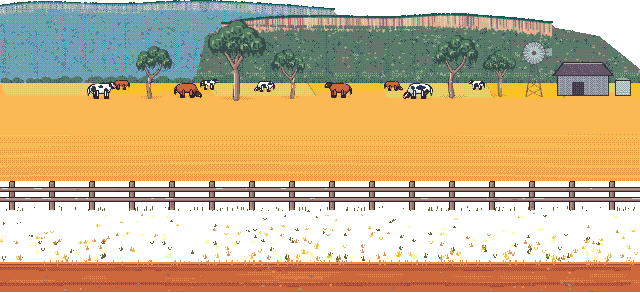
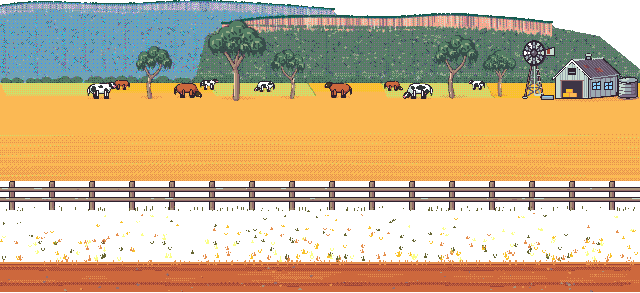
feat(art): give the shed and windmill depth and features

Changed region(s): [[0.8125, 0.1229, 1.0, 0.3686]]

diff --git a/internal/art/backdrop.go b/internal/art/backdrop.go
@@ -51,7 +51,7 @@ const (
 func Backdrop(p Pen, w, ground float64) {
 	mesas(p, w)
 	paddocks(p, w, ground)
-	farm(p.Faded(0.9))
+	farm(p)
 	for _, g := range BackGums {
 		BackGum(p.At(g.X, g.Y).Sized(g.Size).Mirrored(g.Flip), g.Shape)
 	}
@@ -126,55 +126,203 @@ func paddocks(p Pen, w, ground float64) {
 	}
 }
 
-// farm draws the farm in the distance on the right: a shed with a
-// corrugated roof and a water tank beside it, and a windmill.
+// farm draws the farm in the distance on the right (DESIGN D35): the
+// windmill with its trough, the shed and the water tank, each with its
+// shadow on the grass.
 func farm(p Pen) {
-	// The shed, its wall and roof ribbed, its door open dark.
-	p.Poly(ink, 557, 223, 609, 223, 609, 245, 557, 245)
-	p.Poly(resurrect64.Fog, 558, 224, 608, 224, 608, 244, 558, 244)
-	for x := 561.0; x < 607; x += 3 {
-		p.Stroke(resurrect64.Lilac, 0.5, x, 225, x, 243)
+	p.Faded(0.4).Poly(grassDeep, 553, 247, 588, 247, 636, 244, 640, 249, 590, 251, 556, 250)
+	shed(p)
+	tank(p)
+	windmill(p)
+}
+
+// shed draws the farm shed from its near corner, lit from the left: the
+// gable end with its open door, hay inside and a louvred vent; the long wall
+// going back in shade, with windows; and the roof's far-reaching slope, its
+// iron ribbed and rusting, with a ridge cap and a roof vent.
+func shed(p Pen) {
+	// The long wall, in shade, darker under the eave.
+	p.Poly(ink, 587, 224, 618, 222, 618, 245, 587, 248)
+	p.Poly(resurrect64.Fog, 588, 225, 617, 223, 617, 244, 588, 247)
+	for x := 590.5; x < 617; x += 2.5 {
+		p.Stroke(resurrect64.Lilac, 0.5, x, 226, x, 246)
 	}
-	p.Poly(resurrect64.Shadow, 572, 231, 584, 231, 584, 244, 572, 244)
-	p.Poly(ink, 552, 225, 563, 211, 603, 211, 614, 225)
-	p.Poly(resurrect64.Dusk, 554, 224.2, 564, 212, 602, 212, 612, 224.2)
-	for x := 566.0; x < 601; x += 2.6 {
-		p.Stroke(resurrect64.Lilac, 0.5, x, 212.6, x-2.4, 223.6)
+	p.Poly(resurrect64.Dusk, 588, 225, 617, 223, 617, 226, 588, 229)
+	// Two windows on it, showing the sky.
+	for _, x := range []float64{593, 605} {
+		p.Poly(ink, x-0.7, 231.2, x+7.7, 230.5, x+7.7, 238.5, x-0.7, 239.2)
+		p.Poly(resurrect64.Sky, x, 231.8, x+7, 231.2, x+7, 237.9, x, 238.5)
+		p.Stroke(ink, 0.6, x+3.5, 231.5, x+3.5, 238.2)
+		p.Stroke(ink, 0.6, x, 235.1, x+7, 234.5)
 	}
-	p.Stroke(resurrect64.Mist, 0.8, 564, 212.4, 602, 212.4)
-	// The round tank, ribbed.
-	p.Poly(ink, 615, 229, 631, 229, 631, 245, 615, 245)
-	p.Poly(resurrect64.Mist, 616, 230, 630, 230, 630, 244, 616, 244)
-	for y := 232.0; y < 244; y += 2.4 {
-		p.Stroke(resurrect64.Fog, 0.6, 616, y, 630, y)
+	// The gable end, in the light, its iron ribbed.
+	p.Poly(ink, 555, 226, 572, 210, 589, 226, 589, 248, 555, 248)
+	p.Poly(resurrect64.Mist, 556, 226, 572, 211, 588, 226, 588, 247, 556, 247)
+	for x := 558.0; x < 588; x += 2.4 {
+		y := 226 - 15*(1-abs(x-572)/16)
+		p.Stroke(resurrect64.Fog, 0.5, x, y+0.6, x, 246.5)
 	}
-	p.Poly(resurrect64.Fog, 615, 229, 623, 226, 631, 229)
-	// The windmill: a lattice tower, the wheel of blades and its tail.
-	top, foot := 202.0, 246.0
+	// Its door open dark, hay stacked inside, framed in timber.
+	p.Poly(ink, 561, 229, 583, 229, 583, 247, 561, 247)
+	p.Poly(resurrect64.Shadow, 562, 230, 582, 230, 582, 247, 562, 247)
+	for i, b := range [][2]float64{{563, 242}, {570, 242}, {566, 237.5}} {
+		c := []int{resurrect64.Gold, resurrect64.Honey, resurrect64.Gold}[i]
+		p.Poly(resurrect64.Caramel, b[0], b[1], b[0]+7, b[1], b[0]+7, b[1]+4.6, b[0], b[1]+4.6)
+		p.Poly(c, b[0], b[1], b[0]+6.4, b[1], b[0]+6.4, b[1]+3.8, b[0], b[1]+3.8)
+	}
+	p.Stroke(resurrect64.Clay, 1.2, 561, 229.4, 583, 229.4)
+	p.Stroke(resurrect64.Clay, 1.2, 561.4, 229.4, 561.4, 247)
+	p.Stroke(resurrect64.Clay, 1.2, 582.6, 229.4, 582.6, 247)
+	// The louvred vent up in the gable.
+	p.Poly(ink, 568, 217, 576, 217, 576, 224, 568, 224)
+	for y := 218.2; y < 224; y += 1.6 {
+		p.Stroke(resurrect64.Fog, 0.7, 568.6, y, 575.4, y)
+	}
+	// The roof's slope, going back, ribbed, a little rust where it is old.
+	p.Poly(ink, 572, 208.6, 603, 206.6, 621, 223.6, 591, 228)
+	p.Poly(resurrect64.Dusk, 572.6, 209.8, 602.6, 207.8, 619.4, 223.2, 590.6, 227)
+	for i := 1; i < 11; i++ {
+		f := float64(i) / 11
+		p.Stroke(resurrect64.Lilac, 0.7, lerp(572.6, 602.6, f), lerp(209.8, 207.8, f), lerp(590.6, 619.4, f), lerp(227, 223.2, f))
+	}
+	p.Faded(0.55).Poly(resurrect64.Rust, 594, 217, 600, 216.4, 604, 220.8, 597.4, 221.6)
+	p.Faded(0.55).Poly(resurrect64.Rust, 583, 214, 587, 213.6, 590, 217, 586, 217.4)
+	p.Stroke(resurrect64.Mist, 1.4, 572, 209.2, 603, 207.2)
+	// The barge boards along the gable's edge, and the gutter.
+	p.Stroke(ink, 2.2, 552.6, 228, 572, 209.4, 591, 228)
+	p.Stroke(resurrect64.White, 1.2, 552.8, 227.8, 572, 209.6, 590.8, 227.8)
+	p.Stroke(resurrect64.Fog, 1, 591, 227.4, 620, 223.4)
+	// The roof vent on the ridge.
+	p.Poly(ink, 586, 204, 591, 204, 591.6, 208.6, 585.4, 208.6)
+	p.Poly(resurrect64.Fog, 586.8, 204.8, 590.2, 204.8, 590.6, 208, 586.4, 208)
+	p.Ellipse(588.5, 204, 3.4, 1.8, 0, ink)
+	p.Ellipse(588.5, 204, 2.8, 1.3, 0, resurrect64.Mist)
+}
+
+// tank draws the round water tank on its stone base beside the shed, lit
+// from the left and shaded round to the right, its ribs curving about it, a
+// downpipe from the gutter into its domed top, and a tap at its foot.
+func tank(p Pen) {
+	const cx, rx, top, foot = 628.0, 9.0, 229.0, 245.0
+	p.Ellipse(cx, foot+1.2, rx+2, 2.6, 0, resurrect64.Clay)
+	p.Ellipse(cx, foot+0.8, rx+1.4, 2, 0, resurrect64.Sand)
+	p.Poly(ink, cx-rx-0.8, top, cx+rx+0.8, top, cx+rx+0.8, foot, cx-rx-0.8, foot)
+	p.Ellipse(cx, foot, rx+0.8, 2.3, 0, ink)
+	// The wall, in vertical bands from lit to shade.
+	bands := []struct {
+		f0, f1 float64
+		c      int
+	}{{-1, -0.35, resurrect64.Mist}, {-0.35, 0.3, resurrect64.Fog}, {0.3, 0.75, resurrect64.Lilac}, {0.75, 1, resurrect64.Dusk}}
+	for _, b := range bands {
+		p.Poly(b.c, cx+b.f0*rx, top, cx+b.f1*rx, top, cx+b.f1*rx, foot, cx+b.f0*rx, foot)
+	}
+	p.Ellipse(cx, foot, rx, 1.6, 0, resurrect64.Lilac)
+	// The ribs curve round it, as the eye looks down on them.
+	for y := top + 3.2; y < foot; y += 3.4 {
+		p.Curve(resurrect64.Dusk, 0.8, cx-rx, y, cx-rx*0.5, y+1, cx, y+1.3, cx+rx*0.5, y+1, cx+rx, y)
+	}
+	// The domed top, and the pipe from the gutter.
+	p.Ellipse(cx, top, rx+0.8, 3.4, 0, ink)
+	p.Ellipse(cx, top, rx, 2.7, 0, resurrect64.Fog)
+	p.Poly(resurrect64.Mist, cx-rx+1, top-0.2, cx, top-2.8, cx+2, top-1, cx-3, top+1.6)
+	p.Stroke(ink, 1.6, 620, 224, 622, 227, 625, 227.6)
+	p.Stroke(resurrect64.Fog, 0.8, 620, 224, 622, 227, 625, 227.6)
+	// The tap.
+	p.Stroke(ink, 1.2, cx-rx-0.4, foot-3, cx-rx-2.4, foot-3, cx-rx-2.4, foot-1.2)
+}
+
+// windmill draws the windmill and its trough: a four-legged lattice tower on
+// concrete feet, its far legs paler, braced and with a ladder up to a
+// platform; the wheel a little side on, its blades lit in turn, with its rim
+// and hub, the gearbox and the tail vane behind; and the pipe to the trough.
+func windmill(p Pen) {
+	const cx, top, foot, plat = 534.0, 202.0, 246.0, 209.0
+	leg := func(fx, fy, tx float64, c int, w float64) { p.Stroke(c, w, cx+fx, foot+fy, cx+tx, plat) }
+	// The far legs and their braces.
+	leg(-4.5, -1.6, -1, resurrect64.Fog, 1)
+	leg(5.5, -1.6, 1.6, resurrect64.Fog, 1)
+	// The near legs' braces, level and crossed, tier by tier.
+	const tiers = 4
+	half := func(f, foot float64) float64 { return foot + (1.8-foot)*f }
+	y := func(f float64) float64 { return foot + (plat-foot)*f }
+	for i := range tiers {
+		f, g := float64(i)/tiers, float64(i+1)/tiers
+		w0, w1 := half(f, 9), half(g, 9)
+		p.Stroke(resurrect64.Dusk, 1, cx-w0, y(f), cx+w1, y(g))
+		p.Stroke(resurrect64.Dusk, 1, cx+w0, y(f), cx-w1, y(g))
+		p.Stroke(resurrect64.Dusk, 1, cx-w1, y(g), cx+w1, y(g))
+	}
+	// The pipe down the middle, to the trough.
+	p.Stroke(resurrect64.Mist, 1, cx+0.4, plat+1, cx+0.4, foot-2, cx+8, foot-2)
+	// The near legs, on their feet.
 	for _, s := range []float64{-1, 1} {
-		p.Stroke(resurrect64.Dusk, 1.1, 534+s*8, foot, 534+s*1.4, top+4)
+		leg(s*9, 0, s*1.8, ink, 2)
+		leg(s*9, 0, s*1.8, resurrect64.Clay, 1.2)
+		p.Poly(ink, cx+s*9-2.4, foot-0.8, cx+s*9+2.4, foot-0.8, cx+s*9+2.6, foot+1.4, cx+s*9-2.6, foot+1.4)
+		p.Poly(resurrect64.Mist, cx+s*9-1.8, foot-0.2, cx+s*9+1.8, foot-0.2, cx+s*9+2, foot+0.8, cx+s*9-2, foot+0.8)
 	}
-	for i := 0; i < 5; i++ {
-		f := float64(i) / 5
-		g := float64(i+1) / 5
-		y0, y1 := foot-(foot-top-4)*f, foot-(foot-top-4)*g
-		w0, w1 := 8-6.6*f, 8-6.6*g
-		p.Stroke(resurrect64.Dusk, 0.5, 534-w0, y0, 534+w1, y1)
-		p.Stroke(resurrect64.Dusk, 0.5, 534+w0, y0, 534-w1, y1)
+	// The ladder up the right leg.
+	for f := 0.1; f < 0.95; f += 0.16 {
+		x := cx + half(f, 9)
+		p.Stroke(resurrect64.Mist, 0.8, x-1.4, y(f), x+0.6, y(f))
 	}
-	p.Poly(resurrect64.Fog, 537, top-1.5, 552, top-5, 552, top+3, 537, top+1.5)
-	p.Stroke(resurrect64.Dusk, 0.8, 534, top, 548, top-1)
-	for i := 0; i < 18; i++ {
-		s, c := math.Sincos(float64(i) * math.Pi / 9)
-		p.Stroke(resurrect64.Mist, 1.2, 534+c*3, top+s*3, 534+c*11, top+s*11)
+	// The platform at the tower's top.
+	p.Poly(ink, cx-5.4, plat-1.6, cx+5.4, plat-1.6, cx+5.4, plat+1, cx-5.4, plat+1)
+	p.Poly(resurrect64.Clay, cx-4.8, plat-1, cx+4.8, plat-1, cx+4.8, plat+0.4, cx-4.8, plat+0.4)
+	// The tail vane on its boom, and the gearbox.
+	p.Poly(ink, cx+5, top-1.8, cx+20.6, top-6.4, cx+20.6, top+3.4, cx+5, top+1.8)
+	p.Poly(resurrect64.Mist, cx+6, top-1.1, cx+19.8, top-5.2, cx+19.8, top+2.4, cx+6, top+1.1)
+	p.Poly(resurrect64.Rust, cx+13, top-3.3, cx+16, top-4.2, cx+16, top+1.5, cx+13, top+0.9)
+	p.Poly(ink, cx-1.8, top-2.4, cx+6, top-2.4, cx+6, top+3.2, cx-1.8, top+3.2)
+	p.Poly(resurrect64.Dusk, cx-1.2, top-1.8, cx+5.4, top-1.8, cx+5.4, top+2.6, cx-1.2, top+2.6)
+	p.Stroke(resurrect64.Dusk, 1.4, cx+1, top+3.2, cx+1, plat-1.6)
+	// The wheel, a little side on: its shadow behind, then the blades.
+	const squash = 0.86
+	wheel := func(r, a float64) (float64, float64) {
+		s, c := math.Sincos(a)
+		return cx + c*r*squash, top + s*r
 	}
-	p.Circle(534, top, 11.5, resurrect64.Ink)
-	p.Faded(0.9).Circle(534, top, 11, resurrect64.Fog)
-	for i := 0; i < 18; i++ {
-		s, c := math.Sincos(float64(i)*math.Pi/9 + 0.08)
-		p.Stroke(resurrect64.Mist, 1.1, 534+c*2.6, top+s*2.6, 534+c*10.6, top+s*10.6)
+	p.Ellipse(cx+1.6, top+0.4, 12.4*squash, 12.4, 0, resurrect64.Shadow)
+	const blades = 12
+	for i := range blades {
+		a := float64(i) * 2 * math.Pi / blades
+		x0, y0 := wheel(3.4, a-0.12)
+		x1, y1 := wheel(12, a-0.22)
+		x2, y2 := wheel(12, a+0.22)
+		x3, y3 := wheel(3.4, a+0.12)
+		p.Poly(ink, x0, y0, x1, y1, x2, y2, x3, y3)
+		c := resurrect64.Mist
+		switch {
+		case i%2 == 1:
+			c = resurrect64.Fog
+		case math.Cos(a)+math.Sin(a) < -0.4: // the top left catches the light
+			c = resurrect64.White
+		}
+		x0, y0 = wheel(3.8, a-0.08)
+		x1, y1 = wheel(11.5, a-0.18)
+		x2, y2 = wheel(11.5, a+0.18)
+		x3, y3 = wheel(3.8, a+0.08)
+		p.Poly(c, x0, y0, x1, y1, x2, y2, x3, y3)
 	}
-	p.Circle(534, top, 2.4, resurrect64.Dusk)
+	// The rims that hold the blades.
+	ring := func(r float64, c int, w float64) {
+		var xy []float64
+		for i := 0; i <= 36; i++ {
+			x, y := wheel(r, float64(i)*math.Pi/18)
+			xy = append(xy, x, y)
+		}
+		p.Stroke(c, w, xy...)
+	}
+	ring(12.2, ink, 0.9)
+	ring(7.6, resurrect64.Dusk, 0.6)
+	p.Circle(cx, top, 3+Line, ink)
+	p.Circle(cx, top, 3, resurrect64.Dusk)
+	p.Circle(cx-0.7, top-0.7, 1.2, resurrect64.Fog)
+	// The trough at its foot, its water showing.
+	const tx, ty = 542.0, 245.0
+	p.Poly(ink, tx-0.8, ty-0.8, tx+11.8, ty-0.8, tx+11.8, ty+4, tx-0.8, ty+4)
+	p.Poly(resurrect64.Fog, tx, ty, tx+11, ty, tx+11, ty+3.2, tx, ty+3.2)
+	p.Poly(resurrect64.Sky, tx+0.6, ty+0.3, tx+10.4, ty+0.3, tx+10.4, ty+1.2, tx+0.6, ty+1.2)
 }
 
 // fence draws the post-and-rail fence across the paddock, weathered grey
